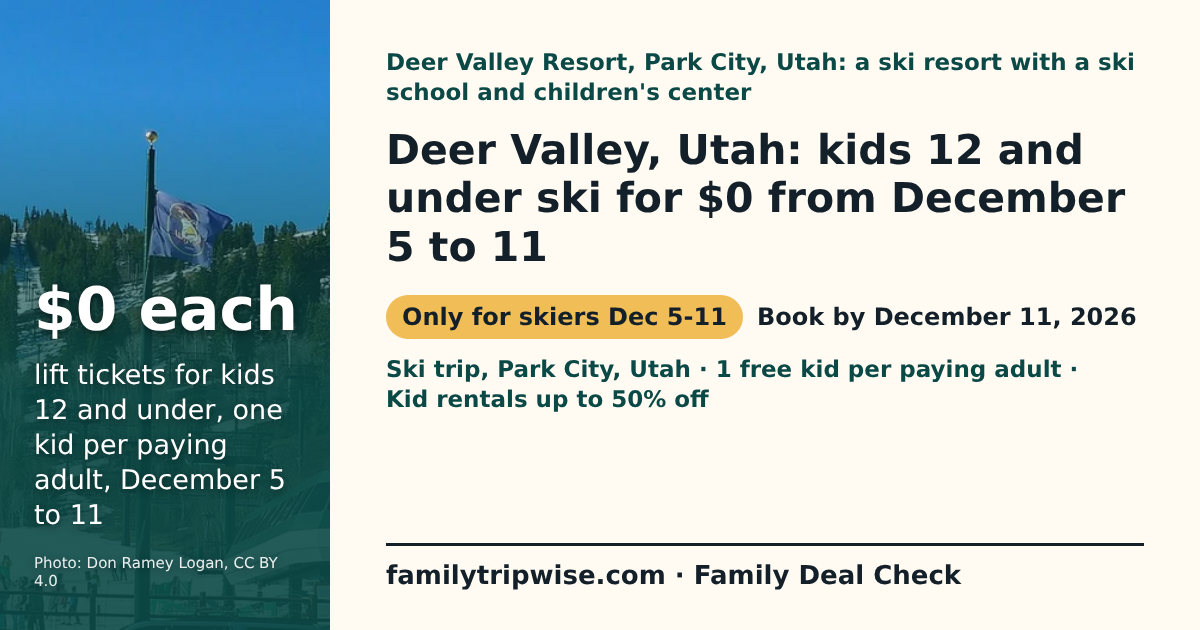
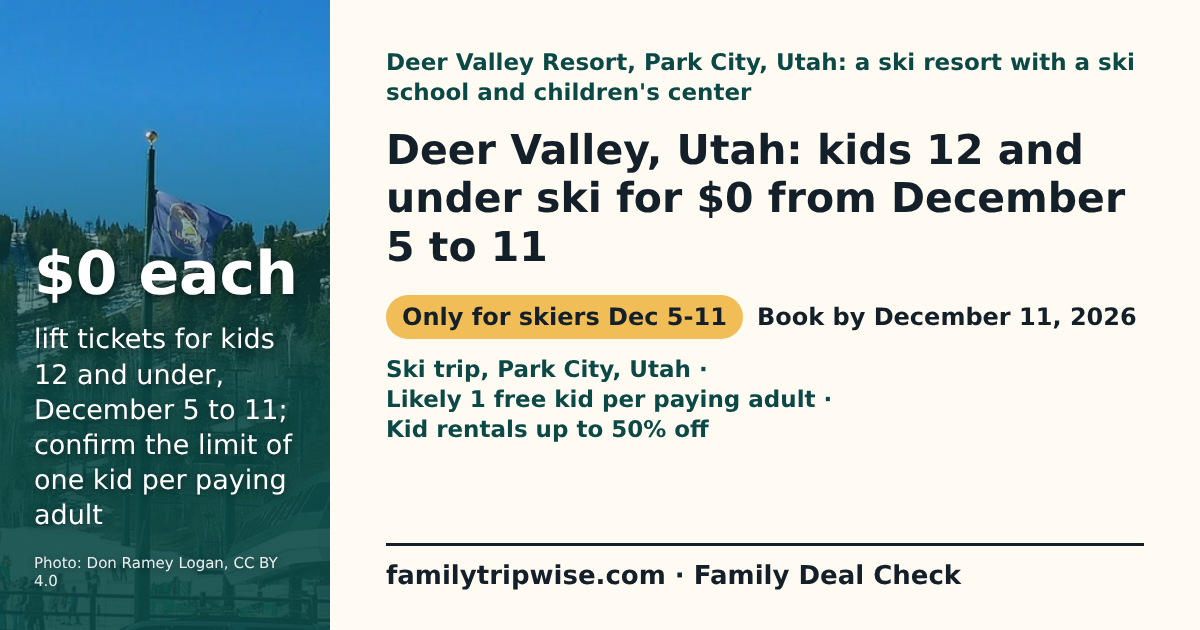
G05: Deer Valley ratio attributed and hedged, verdict wording, record completed
Claude-Session: https://claude.ai/code/session_018uWk6vftnNEAEHtQFM9sMx

Changed region(s): [[0.0308, 0.3921, 0.2467, 0.8444], [0.3083, 0.573, 0.8942, 0.6937]]

diff --git a/site/deals/deer-valley-kids-ski-free-week.html b/site/deals/deer-valley-kids-ski-free-week.html
@@ -14,7 +14,7 @@
     <meta property="og:image" content="https://familytripwise.com/images/og/deals/deer-valley-kids-ski-free-week.png">
     <meta property="og:image:width" content="1200">
     <meta property="og:image:height" content="630">
-    <meta property="og:image:alt" content="$0 each lift tickets for kids 12 and under, one kid per paying adult, December 5 to 11">
+    <meta property="og:image:alt" content="$0 each lift tickets for kids 12 and under, December 5 to 11; confirm the limit of one kid per paying adult">
     <meta name="twitter:card" content="summary_large_image">
     <link rel="stylesheet" href="../styles.css">
   </head>
@@ -27,20 +27,20 @@
             <p class="eyebrow deal-context">Deer Valley Resort, Park City, Utah: a ski resort with a ski school and children&#39;s center</p>
             <h1>Deer Valley, Utah: kids 12 and under ski for $0 from December 5 to 11</h1>
             <div class="spend-save spend-save-missing" role="group" aria-label="What it costs a family of 4"><p class="ss-title">Trip cost for 2 adults and 2 kids aged 6 and 9, one ski day, lift tickets only</p><p class="ss-lead">No price estimate yet</p><p>Deer Valley&#39;s pages show no daily ticket price we could read. Price 2 adult tickets online; both kids&#39; tickets should show free.</p></div>
-            <ul class="deal-chips" aria-label="Key terms"><li class="deal-chip-verdict deal-verdict-only_for">Only for skiers Dec 5-11</li><li>Book by December 11, 2026</li><li>Ski trip, Park City, Utah</li><li>1 free kid per paying adult</li></ul>
+            <ul class="deal-chips" aria-label="Key terms"><li class="deal-chip-verdict deal-verdict-only_for">Only for skiers Dec 5-11</li><li>Book by December 11, 2026</li><li>Ski trip, Park City, Utah</li><li>Likely 1 free kid per paying adult</li></ul>
             
             <p class="contributor-credit">Researched with AI (<a href="../contributors/miles-rowan.html">Miles Rowan</a>) · sources linked and dated · <a href="../about.html">How we check</a></p>
           </div>
-          <div class="deal-big" aria-hidden="true"><span class="deal-big-number deal-big-number-long">$0 each</span><span class="deal-big-label">lift tickets for kids 12 and under, one kid per paying adult, December 5 to 11</span></div>
+          <div class="deal-big" aria-hidden="true"><span class="deal-big-number deal-big-number-long">$0 each</span><span class="deal-big-label">lift tickets for kids 12 and under, December 5 to 11; confirm the limit of one kid per paying adult</span></div>
         </div>
       </section>
       <section id="deal-answer" class="container answer-box deal-glance" aria-label="Verdict, cost and savings">
-        <p class="deal-verdict deal-verdict-only_for"><strong>Our verdict:</strong> Real savings for kids if early December suits you, but we could not see adult ticket prices, so check the whole trip before booking.</p>
-        <p><strong>Best for:</strong> Families free to ski December 5 to 11, with no more than one child 12 or under per paying adult.</p>
-        <p><strong>Not for:</strong> Families who need holiday-week dates, or who want a price they can see before they plan.</p>
+        <p class="deal-verdict deal-verdict-only_for"><strong>Our verdict:</strong> Free kid lift tickets if early December suits you, but we could not see adult ticket prices, so check the whole trip before booking.</p>
+        <p><strong>Best for:</strong> Families free to ski December 5 to 11 with kids 12 and under.</p>
+        <p><strong>Not for:</strong> Families who need holiday-week dates, or who ski with more kids than paying adults.</p>
         <p class="deal-also"><strong>Also note:</strong> Kid rentals up to 50% off</p>
-        <p class="deal-money"><strong>Saves: 2 kid lift tickets at $0 each and up to 50% off kid ski rentals. We could not read the regular ticket price, so we show no dollar saving.</strong></p>
-        <p>Trip cost: we have no checked price for a family of 4. Price adult tickets and lodging on deervalley.com; flights (for example from New York City, not priced), lessons and rentals are extra.</p>
+        <p class="deal-money"><strong>Saves: 2 kid lift tickets at $0 each and up to 50% off kid ski rentals; no dollar saving shown without a regular ticket price.</strong></p>
+        <p>Trip cost: no checked price for a family of 4. Price tickets and lodging on deervalley.com; flights from New York City, lessons and rentals are extra.</p>
       </section>
         <figure class="container licensed-photo deal-photo">
           <img src="../images/deer-valley-ski-resort.webp" alt="Snowy ski runs through dark pines above the Deer Valley base area, with lifts, flags and skiers in line under a blue sky" width="1600" height="528" class="intrinsic-photo" loading="eager" fetchpriority="high" decoding="async">
@@ -49,7 +49,7 @@
       <section class="container page-section" aria-labelledby="deal-get-title">
         <h2 id="deal-get-title">What a family of 4 gets</h2>
         <p>Example family of 4: 2 adults and 2 kids aged 6 and 9, skiing one or more days from December 5 to 11.</p>
-        <ul><li>A free daily lift ticket for each child 12 and under, one child per paying adult.</li><li>50% off Tot and Junior ski rentals during the week (the package page says 20%, so ask).</li><li>The offer covers both online and walk-up tickets, though Deer Valley limits daily sales.</li></ul>
+        <ul><li>A free daily lift ticket for each child 12 and under. Deer Valley&#39;s package page and a sponsored TownLift article limit it to one child per paying adult, so confirm.</li><li>50% off Tot and Junior ski rentals during the week (the package page says 20%, so ask).</li><li>The offer covers both online and walk-up tickets, though Deer Valley limits daily sales.</li></ul>
       </section>
       <section class="container page-section" aria-labelledby="deal-compare-title">
         <h2 id="deal-compare-title">Is it a good deal?</h2>
@@ -57,7 +57,7 @@
       </section>
       <section class="container page-section" aria-labelledby="deal-catch-title">
         <h2 id="deal-catch-title">The catch</h2>
-        <ul class="deal-catch"><li>One free child per paying adult, so a parent alone with 2 kids still pays for one child.</li><li>It runs for one week only, and adult tickets are full price unless you add the package.</li><li>No ticket price shows on the pages we read, so you have to price it yourself.</li></ul>
+        <ul class="deal-catch"><li>Likely one free child per paying adult, so a parent alone with 2 kids may still pay for one child.</li><li>It runs for one week only, and this offer does not discount adult tickets on the pages we read.</li><li>No ticket price shows on the pages we read, so you have to price it yourself.</li></ul>
       </section>
       <section class="container page-section" aria-labelledby="deal-how-title">
         <h2 id="deal-how-title">How to get it</h2>
@@ -72,7 +72,7 @@
       <section class="container page-section" aria-labelledby="deal-proscons-title">
         <h2 id="deal-proscons-title">Pros and cons</h2>
         <div class="deal-proscons">
-          <div><h3>Pros</h3><ul><li>Both kids&#39; lift tickets are free for 2 paying adults.</li><li>Kid rentals are discounted too.</li><li>Works for online and walk-up tickets.</li></ul></div>
+          <div><h3>Pros</h3><ul><li>Both kids&#39; lift tickets should be free with 2 paying adults.</li><li>Kid rentals are discounted too.</li><li>Works for online and walk-up tickets.</li></ul></div>
           <div><h3>Cons</h3><ul><li>Only one week, December 5 to 11.</li><li>No ticket price shows on the pages we read.</li><li>Lodging, flights and lessons are not covered.</li></ul></div>
         </div>
       </section>
@@ -89,7 +89,7 @@
           </div>
         </details>
         <p><strong>Unclear on the offer page:</strong></p>
-        <ul><li>The Kids Ski Free page states no adult-to-child ratio; the one-per-paying-adult limit comes from the Ski, Stay &amp; Save page and a sponsored article by the resort.</li><li>No daily lift ticket price appears on the pages we read, so we cannot say what a family pays or saves.</li><li>The 50% and 20% rental discounts differ by page; ask which applies when you book. A sponsored article says the 50% rate is for rentals booked by phone.</li></ul>
+        <ul><li>The Kids Ski Free page states no adult-to-child ratio; the one-per-paying-adult limit comes from the Ski, Stay &amp; Save page and a TownLift article sponsored by the resort.</li><li>No daily lift ticket price appears on the pages we read, so we cannot say what a family pays or saves.</li><li>The 50% and 20% rental discounts differ by page; ask which applies when you book. A TownLift article sponsored by the resort says the 50% rate is for rentals booked by phone.</li></ul>
         <p class="review-label">Official page, checked November 2, 2026: <a href="https://www.deervalley.com/plan-your-trip/packages-specials/kids-ski-free">Deer Valley Kids Ski Free page</a>.</p>
       </section>
       <nav class="container page-section deal-others" aria-labelledby="deal-others-title">

diff --git a/site/deals/index.html b/site/deals/index.html
@@ -168,7 +168,7 @@
           <article class="detail-card deal-card" id="deer-valley-kids-ski-free-week">
             <p class="fresh-type">Deer Valley Resort, Park City, Utah: a ski resort with a ski school and children&#39;s center</p>
             <h3><a href="./deer-valley-kids-ski-free-week.html">Deer Valley, Utah: kids 12 and under ski for $0 from December 5 to 11</a></h3>
-            <p>Saves: 2 kid lift tickets at $0 each and up to 50% off kid ski rentals. We could not read the regular ticket price, so we show no dollar saving.</p>
+            <p>Saves: 2 kid lift tickets at $0 each and up to 50% off kid ski rentals; no dollar saving shown without a regular ticket price.</p>
             <p class="deal-deadline"><strong>Book by:</strong> December 11, 2026</p>
             <p class="deal-source">Official page, checked November 2, 2026: <a href="https://www.deervalley.com/plan-your-trip/packages-specials/kids-ski-free">Deer Valley Kids Ski Free page</a></p>
           </article>

diff --git a/docs/research/deal-checks-2026-11-02.md b/docs/research/deal-checks-2026-11-02.md
@@ -6,12 +6,12 @@ Each official URL read once (WebFetch) on 2026-11-02; first reads, so no change 
 
 | Source | Observed | Observed value | Use |
 |---|---|---|---|
-| https://www.deervalley.com/plan-your-trip/packages-specials/kids-ski-free | 2026-11-02 | Kids Ski Free Week Dec 5-11, 2026; book by Dec 11; "Kids 12 and under ski free"; valid lift ticket required; online and walk-up; 50% off Tot and Junior rentals; no ratio, no prices | Offer terms |
-| https://www.deervalley.com/plan-your-trip/packages-specials/family-value-package | 2026-11-02 | Ski, Stay & Save: one complimentary child ticket per paying adult (12 and under); 30% Dec 4-17, 2026 and Mar 28-Apr 18, 2027; 20% other periods; $100 resort credit; 20% off rentals; lodging guests; minimum nights vary; pre-buy before 5 pm two days ahead | Ratio and package |
+| https://www.deervalley.com/plan-your-trip/packages-specials/kids-ski-free | 2026-11-02 | Kids Ski Free Week Dec 5-11, 2026; book by Dec 11; "Kids 12 and under ski free"; valid lift ticket required; online and walk-up; 50% off Tot and Junior rentals; lodging 800-558-DEER (3337), 435-645-6528, lodging@deervalley.com; no ratio, no prices | Offer terms |
+| https://www.deervalley.com/plan-your-trip/packages-specials/family-value-package | 2026-11-02 | Ski, Stay & Save: one complimentary child ticket per paying adult (12 and under); 30% off lodging and lift tickets Dec 4-17, 2026 and Mar 28-Apr 18, 2027; 20% other periods; $100 resort credit; 20% off rentals; lodging guests; minimum nights vary; pre-buy before 5 pm two days ahead | Ratio and package |
 | https://www.deervalley.com/plan-your-trip/tickets-and-passes | 2026-11-02 | No daily price; daily sales limited, buy in advance | Why no estimate |
-| https://www.deervalley.com/discover-deer-valley/winter | 2026-11-02 | 2250 Deer Valley Drive South, Park City, UT; ski school; "one child under 12" free per paying adult (package line); some lodging breakfast and heated pools | Context |
-| https://www.deervalley.com/things-to-do/activities/childrens-center | 2026-11-02 | Non-skiing children 2 months-12 years; ages 3-12 $215 regular, $225 high, $230 holiday per day; lunch on full days; reservations required | Things to do |
+| https://www.deervalley.com/discover-deer-valley/winter | 2026-11-02 | 2250 Deer Valley Drive South, Park City, UT; ski school with private lessons, group lessons and clinics for all levels; "one child under 12" free per paying adult (package line); some lodging breakfast and heated pools | Context |
+| https://www.deervalley.com/things-to-do/activities/childrens-center | 2026-11-02 | Non-skiing children 2 months-12 years; ages 3-12 $215 regular, $225 high, $230 holiday per day; lunch on full days; storytelling, art, indoor and outdoor playgrounds; reservations required | Things to do |
 
-Third-party leads, not used as fact: TownLift sponsored article (2026-10-14) says one free child per paying adult and 50% rentals when booked by phone; TownLift (2026-09-04) reports a $349 peak-day adult ticket in 2026-27 with dynamic pricing (no official confirmation, not published).
+Third-party, labelled on the page: TownLift sponsored article (2026-10-14) applies one free child per paying adult to this week and says 50% rentals when booked by phone. The offer page itself states no ratio, so the page says "likely" and "confirm". Lead, not published: Unofficial Networks (2026-10-27) covers the week; TownLift (2026-09-04) reports a $349 peak-day adult ticket in 2026-27 with dynamic pricing (no official confirmation, not published).
 
 Also read, not published: Powder Mountain kids ski free is a season-pass offer (no Dec deadline); Winter Park free kid lift ticket with lesson has no dollar prices or dates; greatwolf.com/deals/black-friday-sale failed to load (no retry).
